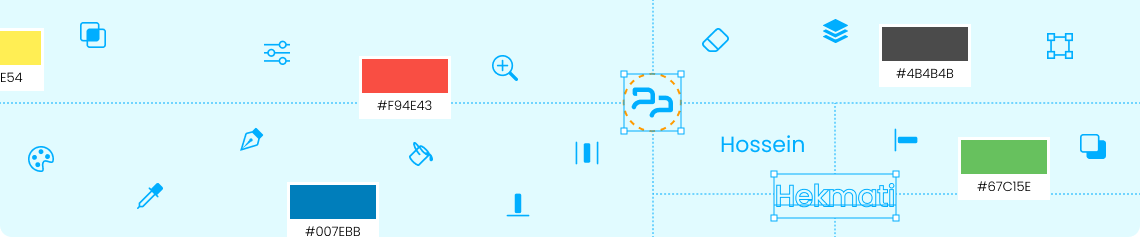
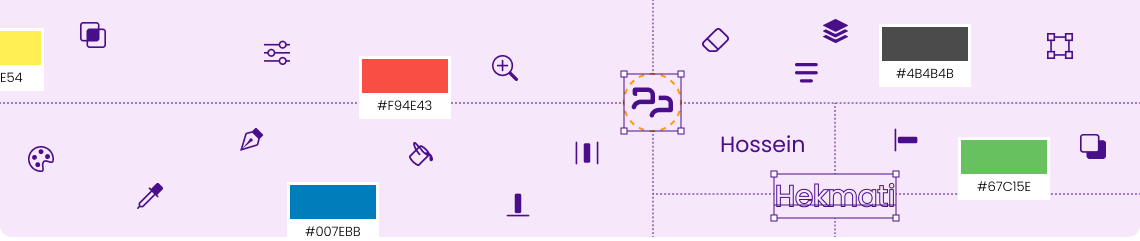
update

diff --git a/src/app/modules/home/home.component.html b/src/app/modules/home/home.component.html
@@ -2,7 +2,8 @@
   <section
     class="my-6 flex flex-col items-center justify-center md:mt-32 md:flex-row md:justify-around">
     <div class="mb-20 mt-6 flex w-full md:hidden">
-      <div class="relative flex h-40 w-full flex-col rounded-3xl bg-[#D7F9FF]">
+      <div
+        class="relative flex h-40 w-full flex-col rounded-3xl bg-[#AB06D41A]">
         <div class="flex justify-between">
           <img class="m-5 h-20 w-20" src="assets/hh.svg" alt="profile" />
           <img class="me-4 w-40" src="assets/my-website.png" alt="profile" />
@@ -50,22 +51,27 @@
         </div>
       </div>
     </div>
-    <div class="text-center md:text-start">
-      <h1 class="text-2xl font-bold text-accent md:text-7xl">I’m Hossein</h1>
+    <div class="flex flex-col gap-4 text-center md:text-start">
+      <h1 class="m-0 text-2xl font-bold text-accent md:text-7xl">
+        I’m Hossein
+      </h1>
       <span class="text-secondary">
         UX/UI Design, Web Design, Drawing Artist
       </span>
 
-      <p class="text-secondary mt-10 max-w-90 text-justify">
-        I’m a digital designer with a background in consumer psychology and
-        business. I love listening to people’s stories, solving problems, facing
-        new challenges and creating beautiful things that matter.
+      <p class="text-secondary max-w-90 text-justify">
+        As a digital designer with a background in consumer psychology and
+        business, I am passionate about understanding people's stories, solving
+        problems, embracing new challenges, and creating impactful designs. I
+        find joy in leveraging my skills to craft beautiful and meaningful
+        creations that resonate with users.
       </p>
 
-      <button
-        class="bg-primary-gradient mt-10 rounded-full px-6 py-3 text-white">
-        Download My Resume
-      </button>
+      <div>
+        <button class="bg-primary-gradient rounded-full px-6 py-3 text-white">
+          Download My Resume
+        </button>
+      </div>
     </div>
     <img
       class="hidden w-80 md:block"
@@ -73,7 +79,7 @@
       alt="Hossein Hakimi" />
   </section>
 
-  <section class="my-6 flex items-center md:mt-32 md:justify-between">
+  <section class="my-6 flex items-center md:mt-40 md:justify-between">
     <div class="w-full">
       <span class="text-base font-medium text-primary md:text-lg">Tools</span>
       <h2 class="text-2xl font-medium text-accent md:text-5xl md:font-normal">
@@ -103,7 +109,7 @@
       alt="image" />
   </section>
 
-  <section class="my-6 flex flex-col justify-center md:mt-32 md:items-center">
+  <section class="my-6 flex flex-col justify-center md:mt-40 md:items-center">
     <span class="text-base font-medium text-primary md:text-lg">My Skills</span>
     <h2 class="text-2xl font-medium text-accent md:text-5xl md:font-normal">
       Skills and Language
@@ -114,32 +120,32 @@
         <span class="text-lg font-medium text-primary">Tools</span>
         <div class="grid grid-cols-2 items-center">
           <span>Photoshop</span>
-          <div class="h-4 w-full rounded-full bg-sky-100 p-1">
-            <div class="h-2 w-10/12 rounded-full bg-primary"></div>
+          <div class="h-4 w-full rounded-full bg-purple-100 p-1">
+            <div class="h-2 w-10/12 rounded-full bg-purple-800"></div>
           </div>
         </div>
         <div class="grid grid-cols-2 items-center">
           <span>Illustrator</span>
-          <div class="h-4 w-full rounded-full bg-sky-100 p-1">
-            <div class="h-2 w-11/12 rounded-full bg-primary"></div>
+          <div class="h-4 w-full rounded-full bg-purple-100 p-1">
+            <div class="h-2 w-11/12 rounded-full bg-purple-800"></div>
           </div>
         </div>
         <div class="grid grid-cols-2 items-center">
           <span>XD</span>
-          <div class="h-4 w-full rounded-full bg-sky-100 p-1">
-            <div class="h-2 w-6/12 rounded-full bg-primary"></div>
+          <div class="h-4 w-full rounded-full bg-purple-100 p-1">
+            <div class="h-2 w-6/12 rounded-full bg-purple-800"></div>
           </div>
         </div>
         <div class="grid grid-cols-2 items-center">
           <span>Figma</span>
-          <div class="h-4 w-full rounded-full bg-sky-100 p-1">
-            <div class="h-2 w-8/12 rounded-full bg-primary"></div>
+          <div class="h-4 w-full rounded-full bg-purple-100 p-1">
+            <div class="h-2 w-8/12 rounded-full bg-purple-800"></div>
           </div>
         </div>
         <div class="grid grid-cols-2 items-center">
           <span>Blender</span>
-          <div class="h-4 w-full rounded-full bg-sky-100 p-1">
-            <div class="h-2 w-5/12 rounded-full bg-primary"></div>
+          <div class="h-4 w-full rounded-full bg-purple-100 p-1">
+            <div class="h-2 w-5/12 rounded-full bg-purple-800"></div>
           </div>
         </div>
       </div>
@@ -148,33 +154,33 @@
         <span class="text-lg font-medium text-primary">Languages</span>
         <div class="grid grid-cols-2 items-center">
           <span>Persian</span>
-          <div class="h-4 w-full rounded-full bg-sky-100 p-1">
-            <div class="h-2 w-10/12 rounded-full bg-primary"></div>
+          <div class="h-4 w-full rounded-full bg-purple-100 p-1">
+            <div class="h-2 w-10/12 rounded-full bg-purple-800"></div>
           </div>
         </div>
         <div class="grid grid-cols-2 items-center">
           <span>English</span>
-          <div class="h-4 w-full rounded-full bg-sky-100 p-1">
-            <div class="h-2 w-11/12 rounded-full bg-primary"></div>
+          <div class="h-4 w-full rounded-full bg-purple-100 p-1">
+            <div class="h-2 w-11/12 rounded-full bg-purple-800"></div>
           </div>
         </div>
         <div class="grid grid-cols-2 items-center">
           <span>French</span>
-          <div class="h-4 w-full rounded-full bg-sky-100 p-1">
-            <div class="h-2 w-6/12 rounded-full bg-primary"></div>
+          <div class="h-4 w-full rounded-full bg-purple-100 p-1">
+            <div class="h-2 w-6/12 rounded-full bg-purple-800"></div>
           </div>
         </div>
         <div class="grid grid-cols-2 items-center">
           <span>German</span>
-          <div class="h-4 w-full rounded-full bg-sky-100 p-1">
-            <div class="h-2 w-8/12 rounded-full bg-primary"></div>
+          <div class="h-4 w-full rounded-full bg-purple-100 p-1">
+            <div class="h-2 w-8/12 rounded-full bg-purple-800"></div>
           </div>
         </div>
       </div>
     </div>
   </section>
 
-  <section class="my-6 flex flex-col justify-center md:mt-32 md:items-center">
+  <section class="my-6 flex flex-col justify-center md:mt-40 md:items-center">
     <span class="text-base font-medium text-primary md:text-lg">Interests</span>
     <h2 class="text-2xl font-medium text-accent md:text-5xl md:font-normal">
       Hobbies
@@ -240,7 +246,7 @@
     </div>
   </section>
 
-  <section class="my-6 flex flex-col justify-center md:mt-32 md:items-center">
+  <section class="my-6 flex flex-col justify-center md:mt-40 md:items-center">
     <span class="text-base font-medium text-primary md:text-lg">Portfolio</span>
     <h2 class="text-2xl font-medium text-accent md:text-5xl md:font-normal">
       My Portfolio

diff --git a/src/app/modules/home/home.component.ts b/src/app/modules/home/home.component.ts
@@ -15,22 +15,22 @@ export class HomeComponent {
     {
       img: 'assets/illustrator.svg',
       name: 'Adobe Illustrator',
-      desc: 'I have 5 years of experience working with Adobe Illustrator, I use this app in almost all of my projects, it’s really handy.',
+      desc: 'I have accumulated five years of extensive experience working with Adobe Illustrator, utilizing this indispensable application in nearly all of my projects. Its remarkable functionality and practicality have proven to be invaluable to me.',
     },
     {
       img: 'assets/photoshop.svg',
       name: 'Adobe Photoshop',
-      desc: 'I have 7 years of experience working with Adobe Photoshop, It was my primary app when I was a graphic designer and now, it’s more like a tool for me to edit and polish textures and resources for my projects. ',
+      desc: '"I possess a wealth of eight years\' experience working with Adobe Photoshop, which served as my primary application during my tenure as a graphic designer. Currently, it has transformed into an invaluable tool for me to refine and enhance textures and resources for my projects.',
     },
     {
       img: 'assets/xd.svg',
       name: 'Adobe Xd',
-      desc: 'I have 3 years of experience working with Adobe XD, I was overwhelmed with joy when I figured out that there’s such an app like this, I’ve used this app for UI projects officially.',
+      desc: 'I have garnered four years of valuable experience working with Adobe XD, a discovery that filled me with overwhelming joy. This exceptional application has become my go-to tool for official UI projects.',
     },
     {
       img: 'assets/figma.svg',
       name: 'Figma',
-      desc: 'I have 2 years of experience working with Figma. I came to this app when I saw some flaws in Xd, it has a far better interface plus some cool features and more of that, The head of design or the employer can oversee the project so easily.',
+      desc: 'I have accumulated four years of hands-on experience working with Figma, which became my preferred choice after identifying certain limitations in XD. With its superior interface and an array of impressive features, Figma has proven to be a remarkable tool. Notably, it enables seamless project oversight for design leads and employers alike, enhancing collaboration and efficiency.',
     },
   ];
 

diff --git a/tailwind.config.js b/tailwind.config.js
@@ -33,8 +33,8 @@ module.exports = {
     },
     extend: {
       colors: {
-        primary: '#00aeff',
-        accent: '#135c73',
+        primary: '#AB06D4',
+        accent: '#3D1373',
       },
       flex: {
         0: '0 0 auto',
@@ -124,7 +124,7 @@ module.exports = {
           color: '#a3a3a3',
         },
         '.bg-primary-gradient': {
-          background: 'linear-gradient(270deg, #00aeff 0%, #71e4ff 100%)',
+          background: 'linear-gradient(90deg, #490F8A 0%, #AB06D4 100%)',
         },
       });
     }),

diff --git a/src/app/layout/layout.component.html b/src/app/layout/layout.component.html
@@ -39,14 +39,6 @@
              Otherwise, layout changes won't be registered and the view won't be updated! -->
       <router-outlet *ngIf="true"></router-outlet>
     </div>
-
-    <!-- Footer -->
-    <div
-      class="bg-primary-gradient relative flex h-16 w-full flex-0 items-center justify-center px-4 text-white md:px-6 print:hidden">
-      <p class="text-center text-md font-medium">
-        Special thanks to Mohsen Sohrabi for creating my Website
-      </p>
-    </div>
   </div>
 
   <!-- Drawer -->

diff --git a/src/app/shared/profile-header/profile-header.component.html b/src/app/shared/profile-header/profile-header.component.html
@@ -4,7 +4,7 @@
   <div
     class="relative flex aspect-square w-32 items-center justify-center rounded-full bg-white p-2 md:w-44">
     <div
-      class="relative aspect-square w-full overflow-hidden rounded-full bg-primary">
+      class="profile-gradient relative aspect-square w-full overflow-hidden rounded-full">
       <img class="h-full" src="assets/my-website.png" alt="profile" />
     </div>
   </div>

diff --git a/src/app/shared/profile-header/profile-header.component.scss b/src/app/shared/profile-header/profile-header.component.scss
@@ -1,3 +1,7 @@
 :host {
   display: block;
 }
+
+.profile-gradient {
+  background: linear-gradient(225deg, #490f8a 0%, #ab06d4 100%);
+}

diff --git a/src/app/modules/home/home.component.scss b/src/app/modules/home/home.component.scss
@@ -1,3 +1,3 @@
 .custom-shadow {
-  box-shadow: 0px 0px 22px 0px #00aeff2b;
+  box-shadow: 0px 0px 16px 0px rgba(0, 0, 0, 0.1);
 }
